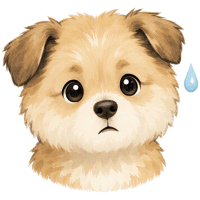
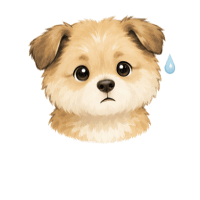
小程序: 四心情贴纸按头部归一化统一尺寸高度——头顶同高头宽一致，修大小/高低不齐

diff --git a/docs/features/miniapp.md b/docs/features/miniapp.md
@@ -46,7 +46,7 @@ flowchart LR
 - 小记、消息、我的三个 tab 的根节点（`.miniapp-journal` / `.miniapp-messages` / `.miniapp-me`）与游戏中心、锁定信件场景同模式，各自是 `position: fixed; inset: 0; z-index: 19; overflow-y: auto` 的固定全屏层：页面文档流高度归零，真机整页不可拖动，内容超一屏由层内滚动兜底（小记正常内容仍恰好一屏，padding 8px 28px 226px 复刻原几何）。层在底部导航（z 20）之下；loading 与解锁后的活跃态小窝仍走原文档流。
 - 「关于小多利」弹窗长按版本号进入隐藏 GM 工具：可为当前账号批量添加 1/3/5 个测试好友（服务端生成 `gm_friend_*` 假用户并直接建立已接受关系、房间和宠物），也可一键删除全部测试好友；删除只作用于 GM 生成的假用户及其关系（真实好友不受影响，服务端按外键级联清理对应房间与宠物数据）。添加或删除成功后立即刷新首页上下文（`MiniappMeView` 的 `onDataChanged`）。
 - 全小程序返回入口统一使用共享组件 `MiniappBackButton`（`miniapp/src/components/`）：无底色的深棕细左箭头（CSS 边框旋转绘制，4rpx 描边），仅保留 72rpx 透明命中区域与按压变淡反馈，`aria-label="返回"`。写日记顶栏、纪念日面板、今日运势页、游戏中心和五子棋页的返回都由它渲染，不再各自维护 `‹` 字符或文字样式。
-- 小记为单人日记：整页固定一屏不滚动（容器 `height: calc(100vh - 220px)`、`overflow: hidden`），今日运势条固定可见，「查看」展开的历史日记在今日块固定区域内超出裁剪；页面背景与其它主界面同为 `#fff8ee`；标题左对齐，下方简介「记录和小多利的每一天。」，「日记 / 纪念日」居中分页；周历放在白卡片里；进入小记时今日日记先显示三行微光骨架占位（`prefers-reduced-motion` 时静止），本周日记接口返回后才把骨架换成空态文案或已记录内容，不再先闪「还没有日记」默认文案再刷新；周日记走内存单槽缓存（`miniapp/src/features/main/journalWeekCache.ts`，只存最后一次请求窗口），请求成功写入缓存，再次切入小记 tab（组件重挂载）时直接渲染缓存数据、不重播骨架动画，改为后台静默刷新替换；已登录冷启动与微信登录成功后后台预取本周日记，首次进小记多数也能直接命中，登出时清缓存防串号；跨周翻页与缓存外的周仍按首次加载播骨架，请求失败时保留缓存/已有数据不闪空态；今日日记卡右侧有「查看」，未上传照片时默认拍立得用坐姿小狗并放大到 280×292（与上传照片白框外径一致，切换不跳变），正文在卡内 `ScrollView` 滚动查看（字号不变，`word-break: break-all` 保证无空格长串也换行），上传照片后用白框拍立得展示（264 内衬 + 8/8/20 边衬，倾角与坐姿邮票一致，约 -6°）；写日记/拍照记录插图较大；各区块使用统一 32rpx 间距；写日记/拍照记录按钮收矮且距卡片底边不变，今日日记上半拍立得区固定 292rpx，运势条紧跟其下、自带 24rpx 底部外边距整体上移，与底栏间距接近消息页。写日记和纪念日都在当前页全屏打开，不跳转；写日记覆盖层固定一屏不滚动，自带顶栏（统一返回按钮 / 写日记 / 保存）、白卡片占满剩余高度（卡片内除正文外全部定高不可压缩；庭院插画整体下移 85rpx 裁掉部分底部空草地，小狗落在卡片下方约 330rpx 露出带里）和心情选择行；正文 textarea 是卡片内唯一弹性区（内容多时在框内滚动，最低 60rpx），相册缩略图行和地点输入出现时压缩正文区而非撑高卡片；心情直接点选表情图（难过/平静/开心/兴奋，120rpx 大图，选中高亮；表情为 200×200 透明贴纸，由 `miniapp/tools/make-mood-slices.mjs` 从四心情源图出件：边界洪泛转真透明 + 圆盘灰环几何擦除，文件名带版本号当前 -v3），日期行不再重复显示心情文字；天气按钮动态显示当前天气图标；未放照片时拍立得放大为 300×326（奔跑邮票 `aspectFit` 居中，「点这里放今天的照片」提示收在框内下方，不遮挡工具栏），放照片后白框外径与之完全一致（272 内衬 + 14/14/40 边衬，倾角与默认奔跑邮票一致约 +6°，两张默认邮票倾角实测方向相反），切换尺寸不跳变，默认插图为奔跑小狗；照片最多 3 张，点主图弹「查看大图/更换照片」，点主图下方缩略图直接预览大图，缩略图 × 移除不影响预览。不提供点赞和分享。
+- 小记为单人日记：整页固定一屏不滚动（容器 `height: calc(100vh - 220px)`、`overflow: hidden`），今日运势条固定可见，「查看」展开的历史日记在今日块固定区域内超出裁剪；页面背景与其它主界面同为 `#fff8ee`；标题左对齐，下方简介「记录和小多利的每一天。」，「日记 / 纪念日」居中分页；周历放在白卡片里；进入小记时今日日记先显示三行微光骨架占位（`prefers-reduced-motion` 时静止），本周日记接口返回后才把骨架换成空态文案或已记录内容，不再先闪「还没有日记」默认文案再刷新；周日记走内存单槽缓存（`miniapp/src/features/main/journalWeekCache.ts`，只存最后一次请求窗口），请求成功写入缓存，再次切入小记 tab（组件重挂载）时直接渲染缓存数据、不重播骨架动画，改为后台静默刷新替换；已登录冷启动与微信登录成功后后台预取本周日记，首次进小记多数也能直接命中，登出时清缓存防串号；跨周翻页与缓存外的周仍按首次加载播骨架，请求失败时保留缓存/已有数据不闪空态；今日日记卡右侧有「查看」，未上传照片时默认拍立得用坐姿小狗并放大到 280×292（与上传照片白框外径一致，切换不跳变），正文在卡内 `ScrollView` 滚动查看（字号不变，`word-break: break-all` 保证无空格长串也换行），上传照片后用白框拍立得展示（264 内衬 + 8/8/20 边衬，倾角与坐姿邮票一致，约 -6°）；写日记/拍照记录插图较大；各区块使用统一 32rpx 间距；写日记/拍照记录按钮收矮且距卡片底边不变，今日日记上半拍立得区固定 292rpx，运势条紧跟其下、自带 24rpx 底部外边距整体上移，与底栏间距接近消息页。写日记和纪念日都在当前页全屏打开，不跳转；写日记覆盖层固定一屏不滚动，自带顶栏（统一返回按钮 / 写日记 / 保存）、白卡片占满剩余高度（卡片内除正文外全部定高不可压缩；庭院插画整体下移 85rpx 裁掉部分底部空草地，小狗落在卡片下方约 330rpx 露出带里）和心情选择行；正文 textarea 是卡片内唯一弹性区（内容多时在框内滚动，最低 60rpx），相册缩略图行和地点输入出现时压缩正文区而非撑高卡片；心情直接点选表情图（难过/平静/开心/兴奋，120rpx 大图，选中高亮；表情为 200×200 透明贴纸，由 `miniapp/tools/make-mood-slices.mjs` 从四心情源图出件：边界洪泛转真透明 + 圆盘灰环几何擦除 + 按头部归一化统一四张的尺寸与高度，文件名带版本号当前 -v3），日期行不再重复显示心情文字；天气按钮动态显示当前天气图标；未放照片时拍立得放大为 300×326（奔跑邮票 `aspectFit` 居中，「点这里放今天的照片」提示收在框内下方，不遮挡工具栏），放照片后白框外径与之完全一致（272 内衬 + 14/14/40 边衬，倾角与默认奔跑邮票一致约 +6°，两张默认邮票倾角实测方向相反），切换尺寸不跳变，默认插图为奔跑小狗；照片最多 3 张，点主图弹「查看大图/更换照片」，点主图下方缩略图直接预览大图，缩略图 × 移除不影响预览。不提供点赞和分享。
 - 日记数据使用个人维度 `/api/diaries` 接口（创建、区间列表、更新、删除、切换喜欢），照片压缩后以 base64 存储，单张不超过 30 万字符、每篇最多 3 张。
 - 纪念日与日记编辑器仍保留独立页面路由作壳层（`pages/journal-anniversary`、`pages/journal-editor`），主路径在小记当前页全屏打开对应面板；纪念日沿用房间维度接口，无好友时回退个人 `pet_dm` 房间。纪念日面板顶部有暖色渐变过渡；面板覆盖层与写日记一致为定高 `overflow: hidden` 一屏层不可滑动（表单照片区 220rpx、间距收紧凑保证小屏一屏放下）；进入面板先显示两块微光骨架卡，接口返回后才渲染列表或空态，不再先闪默认空状态。纪念日列表卡片为「暖底圆角方形图标座 + 左侧信息 + 右侧倒计时聚焦块」，带顶部高光与多层投影（图标为 256×256 手绘贴纸风透明底 PNG，由 `miniapp/tools/make-anniversary-icons.mjs` 从 SVG 出件：深棕粗描边 + 奶白/柔粉填充 + 暖橙点缀与小星星装饰，与应用内心情/动作图标同语言，单张 4–8KB）：信息列依次为名称（卡片标题档）、日期行（`2024年8月28日 · 每年/单次`）、说明（单行省略）与「已走过 N 天」等辅句；右侧聚焦块展示大号倒计时数字加「天后/天前」单位（40rpx 档），点击卡片进入编辑；当天纪念日卡片换暖色渐变底，聚焦块显示「今天」，辅句显示「第 N 周年 🎉」（单次为「就是今天 🎉」）；未到首次日期的纪念日辅句显示「期待中 ✨」。列表按下次日期由近到远排序（过期单次垫底），底部为虚线描边卡片式「+ 添加纪念日」按钮；空状态为白卡居中气球插画加「还没有纪念日」与引导文案；列表卡片有轻量上浮入场动效并支持 `prefers-reduced-motion` 降级。可选上传一张照片作纪念日背景（表单照片区 300rpx 高，复用 `imageCompression` 统一压缩链路：quality 80、宽度档 [1080, 900, 720]、dataURL 上限 300_000 字符，服务端 `anniversaryPhotoSchema` 同步校验，`photo: null` 清除）；上传照片后列表改用 DaysMatter 式照片背景大卡（560rpx 高，照片 `aspectFill` 铺底 + 上下渐隐遮罩，居中展示「名称 · 还有/已经」引导句、132rpx 大号倒计时数字与「N年N月M日 星期X」日期行，白字带投影），无照片仍用图标座卡片。表单整体收进白卡：日期、名称、说明为暖底字段块，五个图标选项为等宽大图标格（84rpx 透明底贴纸直接点选，无边框不可滑动，选中仅换暖底加深色描边，与写日记心情选择同款交互），「每年重复/不重复」为分段控件（选中格白底浮起，原生按钮边框已重置），底部操作行为「取消 / 删除（编辑时） / 保存」，保存为暖色渐变胶囊按钮。
 - 我的页面支持 MBTI 选择并通过资料接口保存。
@@ -166,10 +166,10 @@ npm run build:weapp --prefix miniapp
 | `journal/action-write-v2.png` | 320×270 | 14 KB | 小记「写日记」按钮插画 |
 | `journal/action-photo-v2.png` | 359×219 | 22 KB | 小记「拍照记录」按钮插画 |
 | `journal/editor-yard.jpg` | 750×750 | 29 KB | 写日记页底部庭院背景 |
-| `moods/mood-1-v3.png` | 200×200 | 20 KB | 写日记心情选择：难过（乌云含泪，透明抠图） |
-| `moods/mood-2-v3.png` | 200×200 | 25 KB | 写日记心情选择：平静（侧边汗滴，透明抠图） |
-| `moods/mood-3-v3.png` | 200×200 | 25 KB | 写日记心情选择：开心（吐舌笑加短线，透明抠图） |
-| `moods/mood-4-v3.png` | 200×200 | 20 KB | 写日记心情选择：兴奋（眯眼腮红加爱心星星，透明抠图） |
+| `moods/mood-1-v3.png` | 200×200 | 14 KB | 写日记心情选择：难过（乌云含泪，透明抠图） |
+| `moods/mood-2-v3.png` | 200×200 | 14 KB | 写日记心情选择：平静（侧边汗滴，透明抠图） |
+| `moods/mood-3-v3.png` | 200×200 | 17 KB | 写日记心情选择：开心（吐舌笑加短线，透明抠图） |
+| `moods/mood-4-v3.png` | 200×200 | 17 KB | 写日记心情选择：兴奋（眯眼腮红加爱心星星，透明抠图） |
 
 本地包内资源禁止使用 WebP（微信 image 组件不解析本地 WebP，iOS 真机会整块不显示；WebP 仅用于塔罗 COS 网络资源并配合 `webp` 属性）。入库前用 `scripts/optimize-miniapp-assets.mjs` 统一压缩：带透明通道的图片转 256 色全色板 + 误差扩散抖动 PNG（禁止再压 64/128 小色板，2026-08 验收发现小色板把整体压灰；全量真彩 PNG 约 5.4MB 超包，256 全色板是包体约束下最接近原图色彩的方案），不透明背景转 JPEG（mozjpeg，4:4:4 色度保留），两张大背景按显示密度降采样（street 840px、room 1152px）。可选 TinyPNG 追加压缩：设置 `TINIFY_API_KEY` 环境变量后执行 `node scripts/optimize-miniapp-assets.mjs --write`，脚本在本地优化产物上再过一遍 TinyPNG，只覆盖收益 ≥2% 的文件，输出保持 PNG/JPEG（key 存环境变量，禁止进仓库）。运行时用户照片压缩走 `miniapp/src/services/imageCompression.ts`：单次压缩、quality 80、按宽度档位 `[1080, 900, 720]`（头像 `[640, 480, 360]`）降分辨率重试，禁止降质量和重复压缩（详见 `.agents/rules/miniapp-image.md`）。运行时使用固定容器尺寸和 `aspectFit` 或 `aspectFill`，避免布局跳动。每张小程序图片控制在 180 KB 安全线内；主包构建产物必须低于微信 2MB 上限（当前约 1.9MB，若继续膨胀需考虑非 tab 页分包或大图迁 COS）。小程序副本随 `miniapp` 构建产物分发；塔罗资源不打包，从 COS 版本目录下载。
 
